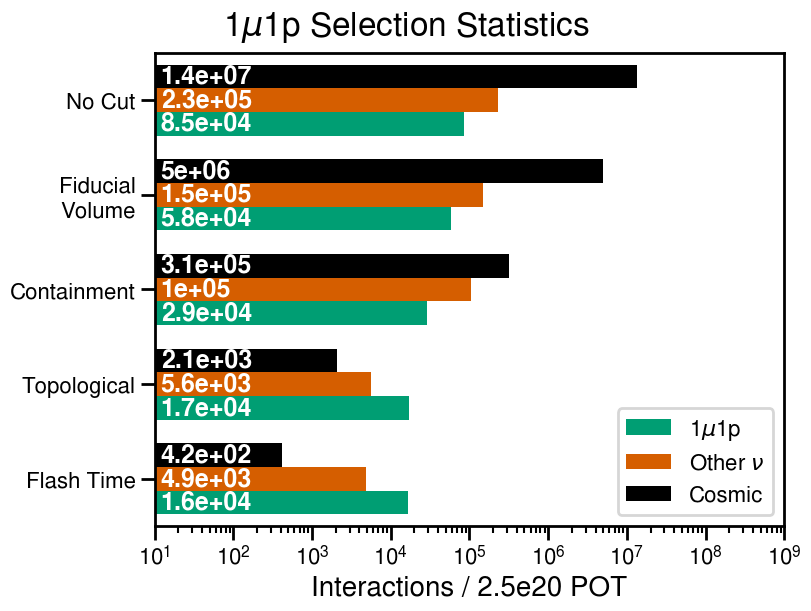
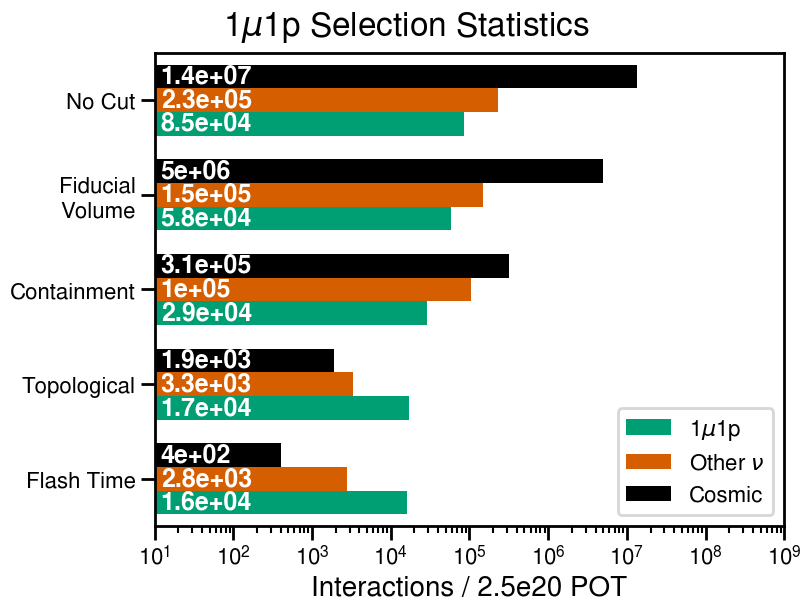
Fixed bug causing shower energies to always be below threshold and therefore never being reconstructed in the final state

diff --git a/include/cuts.h b/include/cuts.h
@@ -46,7 +46,7 @@ namespace cuts
             {
                 if(p.is_primary)
                 {
-                    double energy(p.csda_ke);
+                    double energy(p.pid > 1 ? p.csda_ke : p.calo_ke);
                     if constexpr (std::is_same_v<T, caf::SRInteractionTruthDLPProxy>)
                         energy = p.energy_deposit;
                     if(p.pid == 2 && energy > 143.425) // Muon greater than 50 cm.
